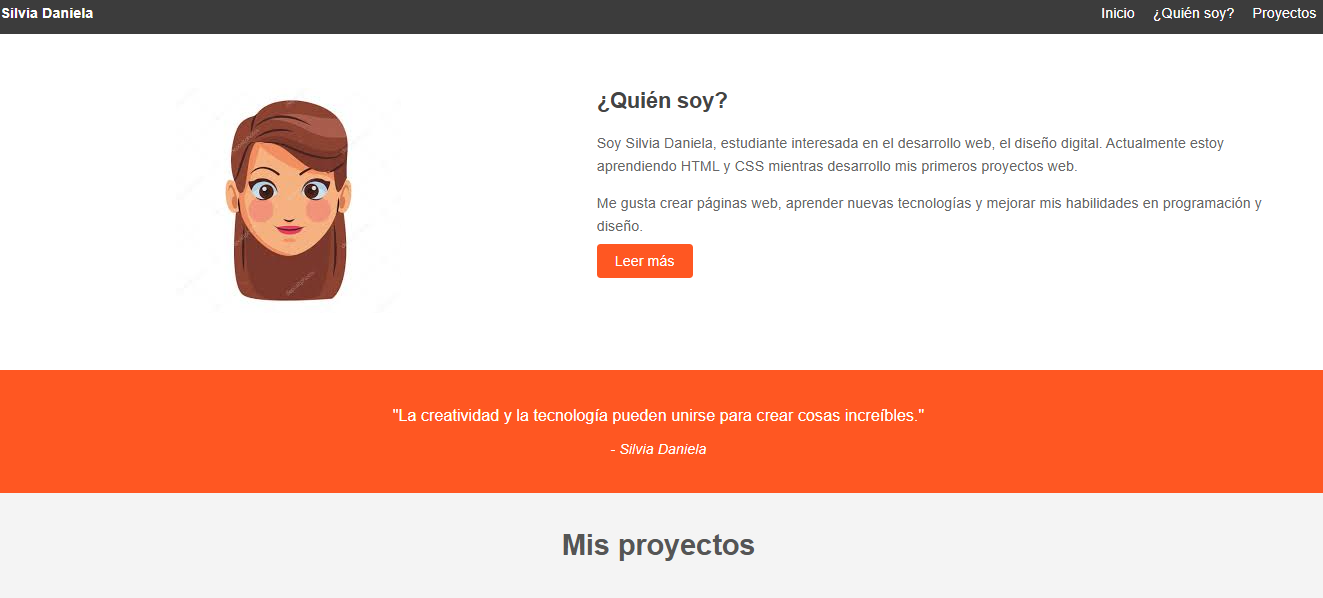
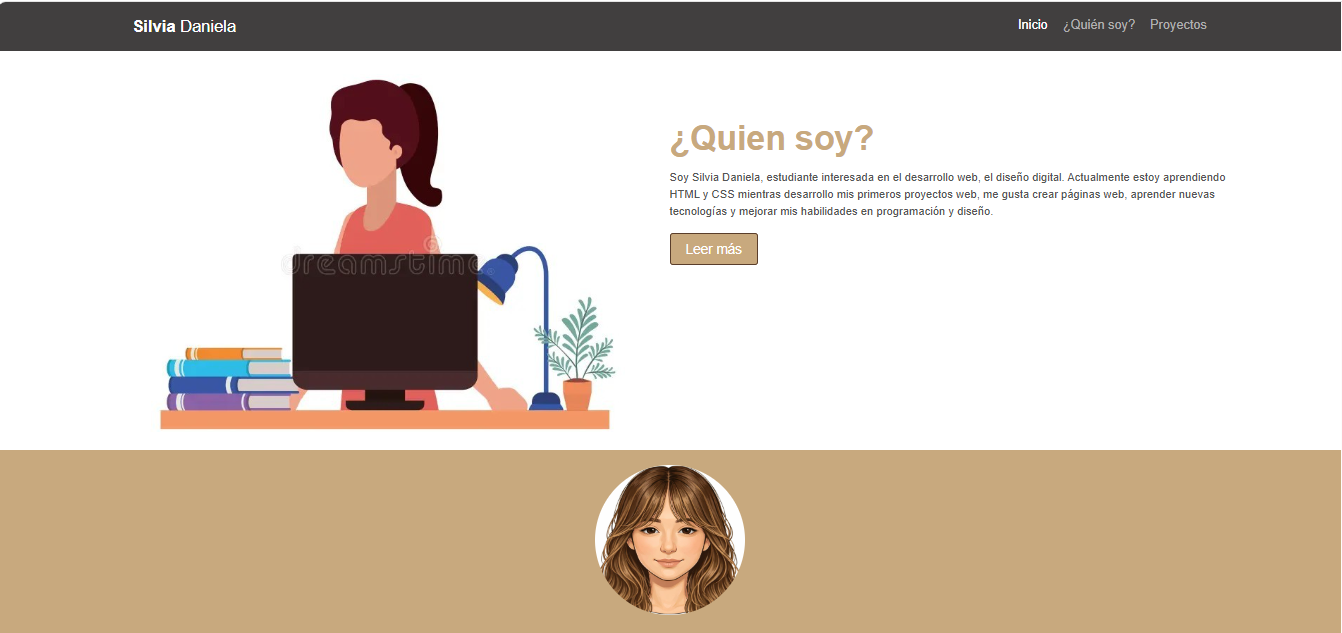
Add files via upload

diff --git a/index.html b/index.html
@@ -9,20 +9,21 @@
     <style>
         body {
             margin: 0;
-            font-family: Arial;
-            background: #f4f4f4;
+            font-family: sans-serif;
+            background: #ffffff;
         }
 
         .menu {
-            background: #3c3c3c;
+            background: #413f3f;
             color: white;
-            padding: 15px;
+            padding: 20px 0;
             overflow: hidden;
         }
 
         .menu .logo {
             float: left;
-            font-weight: bold;
+            font-size: 20px;
+            margin-left: 10%;
         }
 
         .menu ul {
@@ -30,6 +31,8 @@
             margin: 0;
             padding: 0;
             float: right;
+            font-size: 17px;
+            margin-right: 10%;
         }
 
         .menu ul li {
@@ -42,82 +45,102 @@
             text-decoration: none;
         }
 
+        .menu a.grey {
+            color: #b0b0b0;
+        }
+
         .quien {
             background: white;
-            padding: 60px;
+            padding: 60px 10%;
             overflow: hidden;
         }
 
         .quien .foto {
-            width: 30%;
+            width: 50%;
             float: left;
             text-align: right;
+            margin-top: -80px;
+
         }
 
         .quien .foto img {
-            width: 250px;
+            width: 90%;
             border-radius: 5px;
+            margin-right: 20px;
         }
 
         .quien .texto {
-            width: 65%;
+            width: 50%;
             float: left;
-            margin-left: 20px;
+            margin-top: 10px;
         }
 
         .quien h2 {
-            margin-top: 0;
-            color: #444;
+            font-size: 40px;
+            margin: 0;
+            color: #c8a97e;
         }
 
         .quien p {
-            color: #666;
-            line-height: 1.6;
+            color: #555;
+            line-height: 1.5;
+            font-size: 15px;
+            text-align: left;
+            margin-bottom: 30px;
         }
 
 
         .frase {
-            background: #ff5722;
+            background: #c8a97e;
             color: white;
             text-align: center;
-            padding: 40px;
+            padding: 20px 10%;
+            margin-top: -40px;
         }
 
         .frase img {
-            margin-bottom: 5px;
-            width: 180px;
-            height: 180px;
+            margin-bottom: 15px;
+            width: 200px;
+            height: 200px;
             border-radius: 50%;
         }
 
         .frase p {
-            width: 600px;
+            width: 100%;
             margin: auto;
-            font-size: 18px;
+            font-size: 20px;
             line-height: 1.6;
         }
 
+        .frase em {
+            display: block;
+            margin: 5px;
+        }
+
         .btn {
-            background: #ff5722;
+            background: #c8a97e;
             color: white;
             text-decoration: none;
             padding: 10px 20px;
             border-radius: 4px;
+            border: 2px solid #5a3e2b;
+            font-size: 15px;
         }
 
         .btn:hover {
-            background: #e64a19;
+            background: #c8a97e;
         }
 
         h1 {
             text-align: center;
-            margin: 40px 0;
-            color: #555;
+            margin: 30px 0 20px 0;
+            color: #2c2c2c;
+            font-size: 50px;
         }
 
         .proyectos {
-            width: 90%;
-            margin: auto;
+            width: 80%;
+            margin-left: 10%;
             overflow: hidden;
         }
 
@@ -128,8 +151,13 @@
             float: left;
             margin: 1.5%;
             text-align: center;
-            box-shadow: 0 0 8px rgba(0, 0, 0, 0.1);
+            box-shadow: 0 0 8px rgba(0, 0, 0, 0.25);
             padding-bottom: 20px;
+            height: 450px;
+        }
+
+        .tarjeta .btn {
+            margin-top: 16px;
         }
 
         .tarjeta img {
@@ -139,21 +167,27 @@
         }
 
         .tarjeta h3 {
+            font-size: 22px;
             margin: 15px 0 10px;
+            font-weight: normal;
         }
 
         .tarjeta p {
             padding: 0 15px;
-            color: #666;
+            color: #413f3f;
+            font-size: 15px;
+            line-height: 1.6;
+            height: 180px;
         }
 
         .footer {
-            background: #3c3c3c;
+            background-color: #2c2c2c;
             color: white;
-            text-align: center;
-            padding: 15px;
-            margin-top: 40px;
-            clear: both;
+            text-align: right;
+            padding: 20px 0;
+            margin-top: 15px;
+            padding-right: 11%;
+            font-size: 17px;
         }
     </style>
 
@@ -163,12 +197,12 @@
 
     <div class="menu">
 
-        <div class="logo">Silvia Daniela</div>
+        <div class="logo"><b>Silvia</b> Daniela</div>
 
         <ul>
             <li><a href="#">Inicio</a></li>
-            <li><a href="#">¿Quién soy?</a></li>
-            <li><a href="#">Proyectos</a></li>
+            <li><a href="#" class="grey">¿Quién soy?</a></li>
+            <li><a href="#" class="grey">Proyectos</a></li>
         </ul>
 
     </div>
@@ -176,21 +210,17 @@
     <div class="quien">
 
         <div class="foto">
-            <img src="rostro.jpg">
+            <img src="avatar1.jpg">
         </div>
 
         <div class="texto">
 
-            <h2>¿Quién soy?</h2>
+            <h2>¿Quien soy?</h2>
 
             <p>
                 Soy Silvia Daniela, estudiante interesada en el desarrollo web,
                 el diseño digital. Actualmente estoy aprendiendo HTML y CSS
-                mientras desarrollo mis primeros proyectos web.
-            </p>
-
-            <p>
-                Me gusta crear páginas web, aprender nuevas tecnologías
+                mientras desarrollo mis primeros proyectos web, me gusta crear páginas web, aprender nuevas tecnologías
                 y mejorar mis habilidades en programación y diseño.
             </p>
 
@@ -202,17 +232,17 @@
 
     <div class="frase">
 
-        <img src="idea.jpg" width="150">
+        <img src="face.jpeg" width="150">
 
         <p>
             La creatividad y la tecnología pueden unirse para crear cosas increíbles.
             Cuando combinamos imaginación con herramientas digitales podemos construir
-            proyectos que inspiren, resuelvan problemas y transformen ideas en realidad.
+            proyectos que inspiren, resuelvan problemas y transformen ideas en realidad. Animate a descubir un mundo en
+            donde puedes crear cosas fantásticas a través de la tecnología.
         </p>
 
-        <br>
 
-        <i>- Silvia Daniela</i>
+        <em>- Silvia Daniela</em>
 
     </div>
 
@@ -227,7 +257,7 @@
             <h3>Proyecto 1</h3>
 
             <p>Página web básica desarrollada con HTML y CSS,
-                Su objetivo fue aprender la estructura de una página web, el uso de etiquetas principales y la
+                Su objetivo fue aprender la estructura de una pág web, el uso de etiquetas y la
                 aplicación de estilos para mejorar la presentación visual</p>
 
             <a href="#" class="btn">Ver proyecto</a>
@@ -241,7 +271,7 @@
             <h3>Proyecto 2</h3>
 
             <p>Widget del clima realizado con HTML y CSS, muestra información como la ciudad, la temperatura y el estado
-                del clima utilizando un diseño visual sencillo</p>
+                del clima utilizando un diseño visual sencillo, responsivo y decente.</p>
 
             <a href="#" class="btn">Ver proyecto</a>
 
@@ -253,8 +283,8 @@
 
             <h3>Proyecto 3</h3>
 
-            <p>Diseño de hoja de vida digital, El objetivo fue organizar información información personal, académica y
-                de habilidades en una página web clara y fácil de leer</p>
+            <p>Diseño de hoja de vida digital, El objetivo fue organizar información, como la información personal,
+                académica y de habilidades en una página web clara, fácil de entender y de leer</p>
 
             <a href="#" class="btn">Ver proyecto</a>
 
